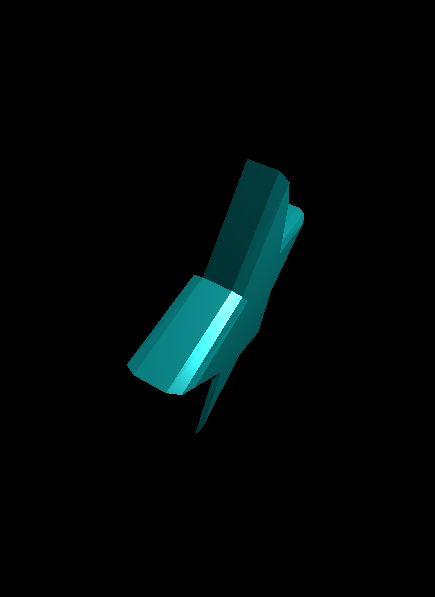
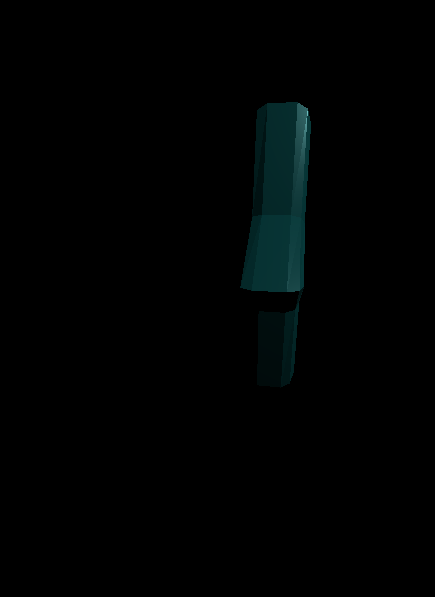
add button play pause star

Changed region(s): [[0.2989, 0.1508, 0.7172, 0.7236]]

diff --git a/assets/js/starVisual.js b/assets/js/starVisual.js
@@ -18,7 +18,9 @@ class StarScene {
         // Créer la scène 3D, la caméra, et le renderer (rendu WebGL)
         this.scene = new THREE.Scene(); // La scène 3D
         this.camera = new THREE.PerspectiveCamera(75, this.width / this.height, 0.1, 1000); // La caméra perspective
-        this.renderer = new THREE.WebGLRenderer(); // Le moteur de rendu WebGL
+        this.renderer = new THREE.WebGLRenderer({ // Le moteur de rendu WebGL
+            preserveDrawingBuffer: true
+        });
         this.renderer.setSize(this.width, this.height); // On définit la taille du renderer
         this.renderer.setPixelRatio(Math.min(window.devicePixelRatio, 2));
         this.container.appendChild(this.renderer.domElement); // On ajoute le canvas du renderer dans le conteneur HTML
@@ -34,6 +36,13 @@ class StarScene {
         this.camera.position.z = 15;
 
         // Initialiser l'animation
+
+        this.isAnimating = true;
+        this.isDragging = false;
+        this.previousMouseX = 0;
+        this.previousMouseY = 0;
+        this.rotationSpeed = 0.001;
+
         this.animate();
 
         // Gérer le redimensionnement de la fenêtre
@@ -41,6 +50,8 @@ class StarScene {
 
         // Gérer la mise à jour des propriétés de l'étoile via des inputs utilisateur
         this.handleInputUpdates();
+        this.handleRotationControls();
+        this.handleAnimationButton();
     }
 
     // Crée la forme d'une étoile à cinq branches (forme 2D)
@@ -84,10 +95,14 @@ class StarScene {
 
     // Fonction d'animation, appelée à chaque frame pour faire tourner l'étoile
     animate() {
-        requestAnimationFrame(() => this.animate()); // Appelle la fonction d'animation à chaque frame
-        this.starMesh.rotation.y += 0.001; // Rotation de l'étoile autour de l'axe Y
-        this.starMesh.rotation.x += 0.001; // Rotation de l'étoile autour de l'axe X
-        this.renderer.render(this.scene, this.camera); // Rendu de la scène
+        requestAnimationFrame(() => this.animate());
+
+        if (this.isAnimating && !this.isDragging) {
+            this.starMesh.rotation.y += this.rotationSpeed;
+            this.starMesh.rotation.x += this.rotationSpeed;
+        }
+
+        this.renderer.render(this.scene, this.camera);
     }
 
     onResize() {
@@ -109,44 +124,28 @@ class StarScene {
         document.querySelectorAll('input').forEach(input => {
             input.addEventListener('input', () => {
                 const value = parseFloat(input.value) || 0;
+                const fieldName = (input.name || input.id || '').toLowerCase();
 
-                if (
-                    input.id.includes('color') ||
-                    input.id === 'starColor'
-                ) {
+                if (fieldName.includes('color')) {
                     this.starMesh.material.color.set(input.value);
 
-                } else if (
-                    input.id.includes('size') ||
-                    input.id === 'starSize'
-                ) {
+                } else if (fieldName.includes('size')) {
                     const newSize = value || 1;
+                    this.starMesh.scale.set(newSize, newSize, newSize);
 
-                    this.starMesh.scale.set(
-                        newSize,
-                        newSize,
-                        newSize
-                    );
-
-                } else if (
-                    input.id.includes('x_position')
-                ) {
+                } else if (fieldName.includes('x_position')) {
                     this.starMesh.position.x = value;
 
-                } else if (
-                    input.id.includes('y_position')
-                ) {
+                } else if (fieldName.includes('y_position')) {
                     this.starMesh.position.y = value;
 
-                } else if (
-                    input.id.includes('z_position')
-                ) {
+                } else if (fieldName.includes('z_position')) {
                     this.starMesh.position.z = value;
                 }
             });
         });
 
-        // Appliquer immédiatement les valeurs déjà présentes
+        // Appliquer immédiatement les valeurs déjà présentes dans le formulaire
         document.querySelectorAll('input').forEach(input => {
             input.dispatchEvent(new Event('input'));
         });
@@ -295,6 +294,79 @@ class StarScene {
                 if (submitButton) {
                     submitButton.disabled = false;
                 }
+            }
+        });
+    }
+
+    handleRotationControls() {
+        this.renderer.domElement.style.cursor = 'grab';
+
+        this.renderer.domElement.addEventListener('pointerdown', (event) => {
+            this.isDragging = true;
+            this.isAnimating = false;
+
+            this.previousMouseX = event.clientX;
+            this.previousMouseY = event.clientY;
+
+            this.renderer.domElement.style.cursor = 'grabbing';
+
+            this.renderer.domElement.setPointerCapture(event.pointerId);
+        });
+
+        this.renderer.domElement.addEventListener('pointermove', (event) => {
+            if (!this.isDragging) {
+                return;
+            }
+
+            const deltaX = event.clientX - this.previousMouseX;
+            const deltaY = event.clientY - this.previousMouseY;
+
+            this.starMesh.rotation.y += deltaX * 0.01;
+            this.starMesh.rotation.x += deltaY * 0.01;
+
+            this.previousMouseX = event.clientX;
+            this.previousMouseY = event.clientY;
+        });
+
+        this.renderer.domElement.addEventListener('pointerup', (event) => {
+            this.isDragging = false;
+
+            this.renderer.domElement.style.cursor = 'grab';
+
+            this.renderer.domElement.releasePointerCapture(event.pointerId);
+        });
+
+        this.renderer.domElement.addEventListener('pointercancel', () => {
+            this.isDragging = false;
+            this.renderer.domElement.style.cursor = 'grab';
+        });
+    }
+
+    handleAnimationButton() {
+        const button = document.getElementById('toggle-star-animation');
+
+        if (!button) {
+            return;
+        }
+
+        button.addEventListener('click', () => {
+            this.isAnimating = !this.isAnimating;
+
+            const icon = button.querySelector('.control-icon');
+            const text = button.querySelector('.control-text');
+
+            if (this.isAnimating) {
+                icon.textContent = '⏸';
+                text.textContent = 'Pause';
+
+                button.setAttribute('aria-label', 'Mettre en pause');
+                button.setAttribute('title', 'Mettre en pause');
+            } else {
+                icon.textContent = '▶';
+                text.textContent = 'Reprendre';
+
+                button.setAttribute('aria-label', 'Reprendre l’animation');
+                button.setAttribute('title', 'Reprendre l’animation');
             }
         });
     }

diff --git a/assets/styles/threejs.css b/assets/styles/threejs.css
@@ -43,6 +43,86 @@
     touch-action: none;
 }
 
+/*Bouton stop et reprendre */
+
+.preview-header {
+    display: flex;
+    align-items: center;
+    justify-content: space-between;
+    gap: 15px;
+    margin-bottom: 12px;
+}
+
+.preview-header h2 {
+    margin: 0;
+}
+
+.star-controls {
+    display: flex;
+    align-items: center;
+}
+
+#toggle-star-animation {
+    display: flex;
+    align-items: center;
+    justify-content: center;
+    gap: 7px;
+
+    padding: 7px 14px;
+
+    border: 1px solid #c6aa0069;
+    border-radius: 8px;
+
+    background: transparent;
+    color: #ffffff;
+
+    font-size: 14px;
+    font-weight: 500;
+
+    cursor: pointer;
+
+    transition:
+        background-color 0.2s ease,
+        color 0.2s ease,
+        transform 0.2s ease;
+}
+
+#toggle-star-animation:hover {
+    background: #c6aa0069;
+    color: white;
+    transform: translateY(-1px);
+}
+
+#toggle-star-animation:active {
+    transform: translateY(0);
+}
+
+.control-icon {
+    font-size: 13px;
+    line-height: 1;
+}
+
+.control-text {
+    line-height: 1;
+}
+
+@media (max-width: 768px) {
+    #toggle-star-animation {
+        width: 38px;
+        height: 38px;
+        padding: 0;
+        border-radius: 50%;
+    }
+
+    .control-text {
+        display: none;
+    }
+
+    .control-icon {
+        font-size: 14px;
+    }
+}
+
 
 /* =========================================================
    TABLETTE
